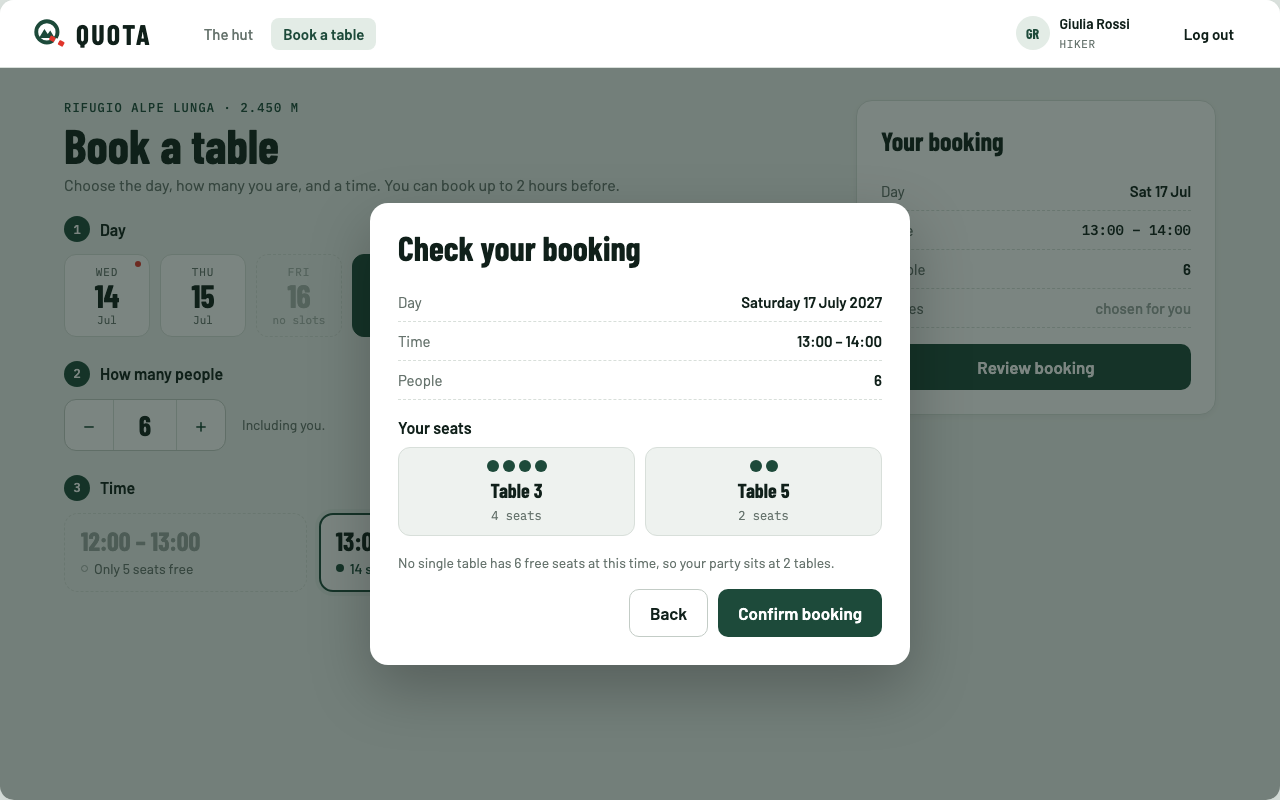
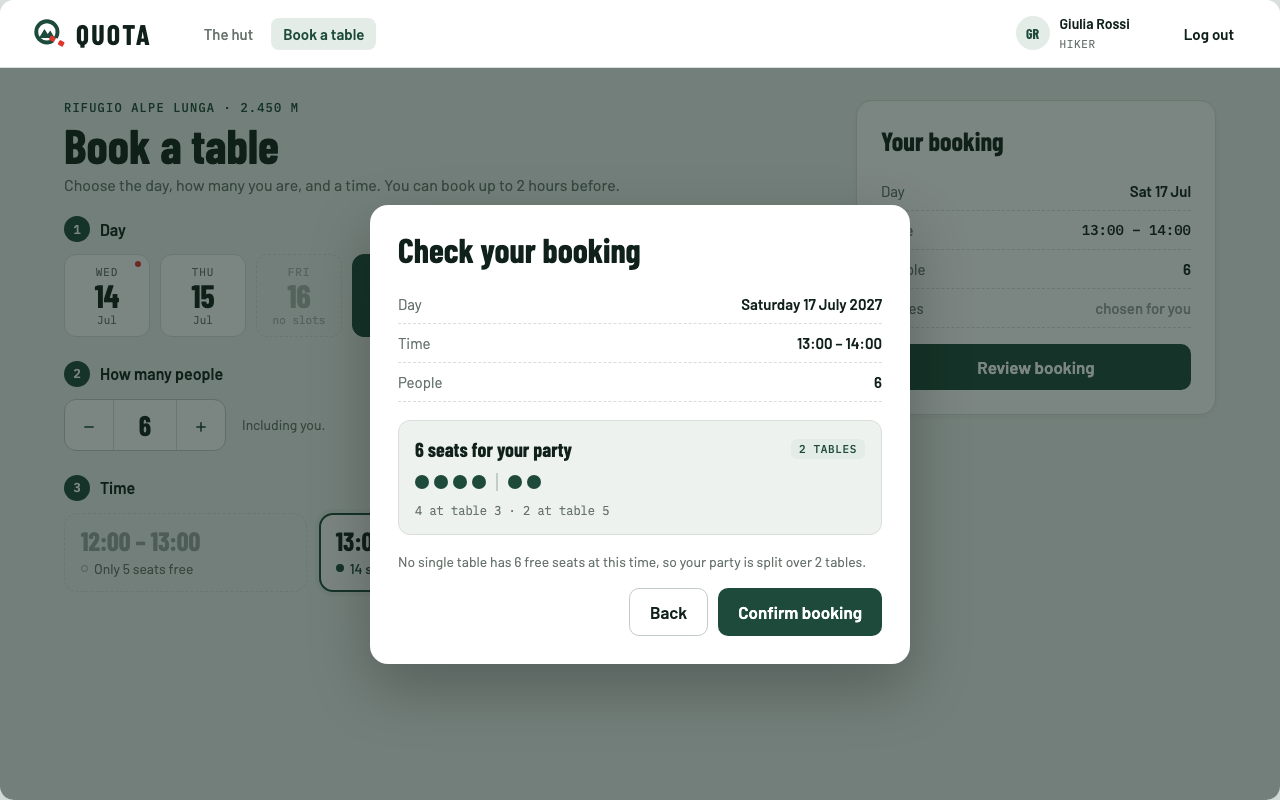
docs: show a split party as one booking in the mockup (MH-39)
Review of #7: two separate table cards could look like two bookings far
apart. The check step now shows one card for the whole party, with the
seats in one bar split 4 + 2 and which table holds how many.

diff --git a/docs/mockups/booking/index.html b/docs/mockups/booking/index.html
@@ -119,12 +119,16 @@
   .scrim { position: absolute; inset: 68px 0 0 0; background: rgba(14,32,25,.55); display: grid; place-items: center; z-index: 2; }
   .dialog { width: 540px; background: var(--snow); border-radius: 18px; padding: 28px; display: grid; gap: 18px; box-shadow: 0 24px 60px rgba(0,0,0,.25); }
   .dialog h3 { font-family: var(--f-display); font-weight: 700; font-size: 34px; margin: 0; line-height: 1; }
-  .tables { display: flex; gap: 10px; }
-  .table { flex: 1; border: 1px solid var(--line); border-radius: 12px; padding: 12px; display: grid; gap: 6px; justify-items: center; background: var(--mist); }
-  .table .seats-dots { display: flex; gap: 4px; flex-wrap: wrap; justify-content: center; max-width: 80px; }
-  .table .seats-dots i { width: 12px; height: 12px; border-radius: 50%; background: var(--pine); }
-  .table b { font-family: var(--f-display); font-size: 20px; }
-  .table span { font-family: var(--f-mono); font-size: 12px; color: var(--stone); }
+  /* one booking = one party: split seats sit in one bar, not in separate table cards */
+  .party { border: 1px solid var(--line); border-radius: 12px; padding: 16px; display: grid; gap: 12px; background: var(--mist); }
+  .party .head { display: flex; justify-content: space-between; align-items: center; }
+  .party .head b { font-family: var(--f-display); font-weight: 700; font-size: 20px; }
+  .party .chip { font-family: var(--f-mono); font-size: 11px; font-weight: 500; letter-spacing: .06em; text-transform: uppercase; padding: 3px 8px; border-radius: 6px; background: var(--moss-soft); color: var(--pine); }
+  .party .seats { display: flex; align-items: center; gap: 10px; }
+  .party .seats span { display: flex; gap: 5px; }
+  .party .seats i { width: 14px; height: 14px; border-radius: 50%; background: var(--pine); }
+  .party .seats hr { width: 1.5px; height: 18px; margin: 0; border: 0; background: var(--input-border); }
+  .party small { font-family: var(--f-mono); font-size: 12px; color: var(--stone); }
   .dialog .why { font-size: 14px; color: var(--stone); margin: 0; }
   .actions { display: flex; gap: 10px; justify-content: flex-end; }
 
@@ -221,7 +225,12 @@ const summary = ({ rows, note, disabled, after }) => `<div class="summary"><h3>Y
   <button class="btn primary" ${disabled ? "disabled" : ""}>Review booking</button>${after ? `<div class="after">${after}</div>` : ""}</div>`;
 const page = (left, right) => `<div class="page"><div><div class="eyebrow">Rifugio Alpe Lunga · 2.450 m</div><h1 class="title">Book a table</h1>
   <p class="sub">Choose the day, how many you are, and a time. You can book up to 2 hours before.</p>${left}</div>${right}</div>`;
-const tables = (list) => `<div class="tables">${list.map(([t, n]) => `<div class="table"><div class="seats-dots">${"<i></i>".repeat(n)}</div><b>Table ${t}</b><span>${n} seat${n > 1 ? "s" : ""}</span></div>`).join("")}</div>`;
+const party = (list) => {
+  const total = list.reduce((sum, [, n]) => sum + n, 0);
+  return `<div class="party"><div class="head"><b>${total} seats for your party</b><span class="chip">${list.length} table${list.length > 1 ? "s" : ""}</span></div>
+    <div class="seats">${list.map(([, n]) => `<span>${"<i></i>".repeat(n)}</span>`).join("<hr>")}</div>
+    <small>${list.map(([t, n]) => `${n} at table ${t}`).join(" · ")}</small></div>`;
+};
 const rowsHtml = (rows) => `<div class="rows">${rows.map(([k, v]) => `<div class="row"><span>${k}</span><b>${v}</b></div>`).join("")}</div>`;
 
 // Sample data for Sat 17 Jul: three slots, each with its own free seats.
@@ -254,13 +263,13 @@ const screens = [
       summary({ rows: [["Day", "Today, Wed 14 Jul"], ["Time", "19:00 – 21:00", "mono"], ["People", "2"], ["Tables", "chosen for you", "muted"]],
         note: "You can book this time until <b>17:00 today</b>." })) },
 
-  { n: "04", title: "Check and confirm", notes: ["The system chooses the tables: it keeps the party together where it can and uses the fewest free seats (PO, issue #11). Tables can be shared with other parties.", "No single table has 6 free seats here, so the party is split 4 + 2. Back keeps every choice."],
+  { n: "04", title: "Check and confirm", notes: ["The system chooses the tables: it keeps the party together where it can and uses the fewest free seats (PO, issue #11). Tables can be shared with other parties.", "No single table has 6 free seats here, so the seats are split 4 + 2. They are shown as one party in one bar, not as two separate bookings. Back keeps every choice."],
     html: nav() + page(
       step(1, "Day", days(17, 14)) + step(2, "How many people", people(6, "Including you.")) + step(3, "Time", `<div class="slots">${SAT(6, "13:00 – 14:00")}</div>`),
       summary({ rows: [["Day", "Sat 17 Jul"], ["Time", "13:00 – 14:00", "mono"], ["People", "6"], ["Tables", "chosen for you", "muted"]] })) +
       `<div class="scrim"><div class="dialog"><h3>Check your booking</h3>${rowsHtml([["Day", "Saturday 17 July 2027"], ["Time", "13:00 – 14:00"], ["People", "6"]])}
-        <div><div class="step-h" style="margin-bottom:10px">Your seats</div>${tables([[3, 4], [5, 2]])}</div>
-        <p class="why">No single table has 6 free seats at this time, so your party sits at 2 tables.</p>
+        ${party([[3, 4], [5, 2]])}
+        <p class="why">No single table has 6 free seats at this time, so your party is split over 2 tables.</p>
         <div class="actions"><button class="btn outline">Back</button><button class="btn primary">Confirm booking</button></div></div></div>` },
 
   { n: "05", title: "Seats taken meanwhile", notes: ["Another hiker booked first, so the server refuses (409). The free seats are reloaded and the choices are kept.", "The same happens if the 2-hour limit passes while the hiker is on the page."],
@@ -294,7 +303,7 @@ const phones = [
   { n: "M3", title: "Check and confirm", notes: ["The dialog becomes a sheet from the bottom.", "Confirm is the first button, where the thumb is."],
     html: mTop() + mPage(step(1, "Day", mDays(17, 14, 30)))
       + `<div class="scrim"><div class="msheet"><div class="handle"></div><h3>Check your booking</h3>${rowsHtml([["Day", "Sat 17 July 2027"], ["Time", "13:00 – 14:00"], ["People", "6"]])}
-        ${tables([[3, 4], [5, 2]])}<p class="why">No single table has 6 free seats at this time, so your party sits at 2 tables.</p>
+        ${party([[3, 4], [5, 2]])}<p class="why">No single table has 6 free seats at this time, so your party is split over 2 tables.</p>
         <div class="stack"><button class="btn primary">Confirm booking</button><button class="btn outline">Back</button></div></div></div>` },
   { n: "M4", title: "Seats taken meanwhile", notes: ["Same message as desktop screen 05, on top of the page."],
     html: mTop() + mPage(`<div class="alert error"><span>Those seats were just taken. 13:00 now has 4 free seats. Choose another time or fewer people.</span></div>` + step(2, "How many people", people(6, "Including you.")) +

diff --git a/docs/mockups/booking/README.md b/docs/mockups/booking/README.md
@@ -4,7 +4,7 @@ Mockup for story **MH-01 Book a table**, used by the booking frontend and backen
 
 > "As a hiker I want to book an available table for a selected date, time, and party size so that my party has a place reserved for the meal."
 
-**Figma (source of truth):** page *MH-39 Book a table* in [Mountain Hut – Mockups (Team 16)](https://www.figma.com/design/VlTombwHX1DQ7yB2x4U5Yx). Every element is an instance from the *Components* page (day, time slot, people stepper, step heading, seat table, phone browser bar and top bar). [index.html](index.html) shows the same screens in a browser with their notes. Same QUOTA brand, colours and fonts as the [login mockup](../login/README.md).
+**Figma (source of truth):** page *MH-39 Book a table* in [Mountain Hut – Mockups (Team 16)](https://www.figma.com/design/VlTombwHX1DQ7yB2x4U5Yx). Every element is an instance from the *Components* page (day, time slot, people stepper, step heading, party seats, phone browser bar and top bar). [index.html](index.html) shows the same screens in a browser with their notes. Same QUOTA brand, colours and fonts as the [login mockup](../login/README.md).
 
 ## Rules on these screens
 
@@ -63,7 +63,7 @@ The same website in a phone browser, not a separate app. Below 992 px (react-boo
 | Slot less than 2 hours away | Closed at *HH:MM* |
 | Summary note | You can book this time until *HH:MM on day*. |
 | No time chosen | Button disabled, "Choose a time to continue." |
-| Party split | No single table has *N* free seats at this time, so your party sits at *K* tables. |
+| Party split | One card for the whole party: "*N* seats for your party", a *K* tables chip, the seats in one bar split by a thin line, and "4 at table 3 · 2 at table 5". Below it: "No single table has *N* free seats at this time, so your party is split over *K* tables." Shown as one party on purpose, so it does not look like separate bookings. |
 | Server saved the booking (`201`) | Table booked. See you at the hut, *first name*. |
 | Seats gone or time closed meanwhile (`409`) | Those seats were just taken. *HH:MM* now has *N* free seats. Choose another time or fewer people. The free seats are reloaded; the hiker's choices are kept. |
 | Invalid request (`400`) | Checked in the browser first, so it should not happen; if it does, the general message "Something went wrong on our side. Try again in a minute." |
